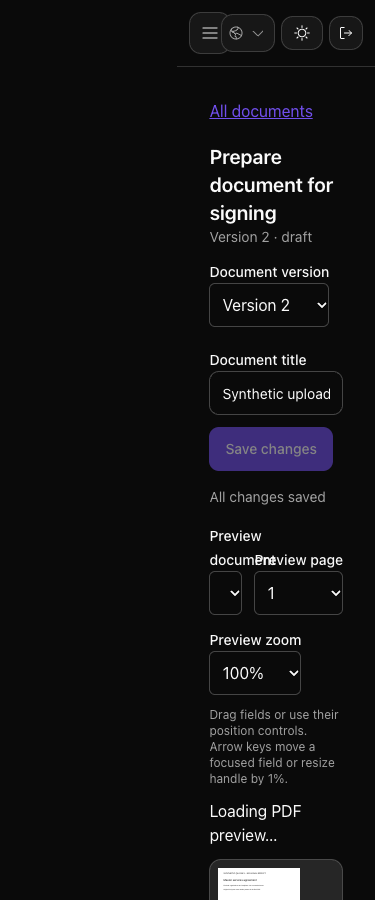
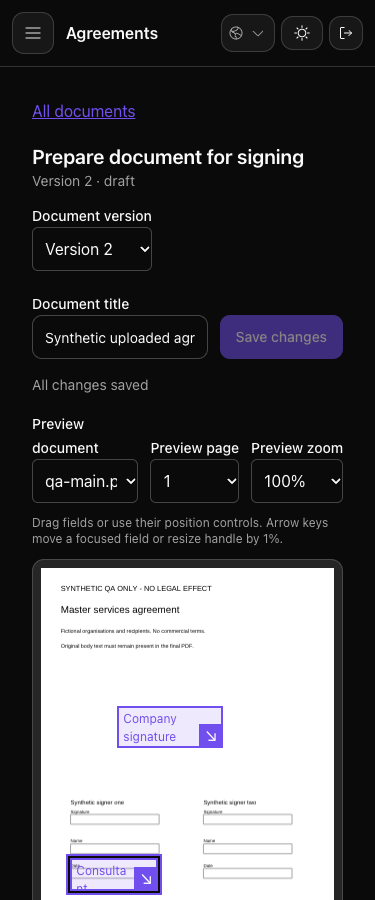
test: capture settled mobile document previews

diff --git a/spec/system/responsive/document_signatures_spec.rb b/spec/system/responsive/document_signatures_spec.rb
@@ -198,6 +198,16 @@ RSpec.describe "Uploaded documents for signing", type: :system, js: true do
     page.execute_script("window.scrollTo(0,0)")
     page.save_screenshot(Rails.root.join("tmp/capybara/signature-placement-desktop.png"), full: true)
     page.current_window.resize_to(375, 900)
+    page.document.synchronize(Capybara.default_max_wait_time) do
+      usable_width = page.evaluate_script(<<~JS)
+        (() => {
+          const box = document.querySelector(".signature-workspace").getBoundingClientRect();
+          return box.left <= 40 && box.width >= window.innerWidth - 80;
+        })()
+      JS
+      raise Capybara::ExpectationNotMet, "The mobile workspace did not reach a usable width" unless usable_width
+    end
+    expect(page).to have_css('[data-pdf-ready="true"]')
     expect(page.evaluate_script("document.documentElement.scrollWidth <= window.innerWidth + 1")).to be(true)
     page.execute_script("window.scrollTo(0,0)")
     page.save_screenshot(Rails.root.join("tmp/capybara/signature-placement-mobile.png"), full: false)
